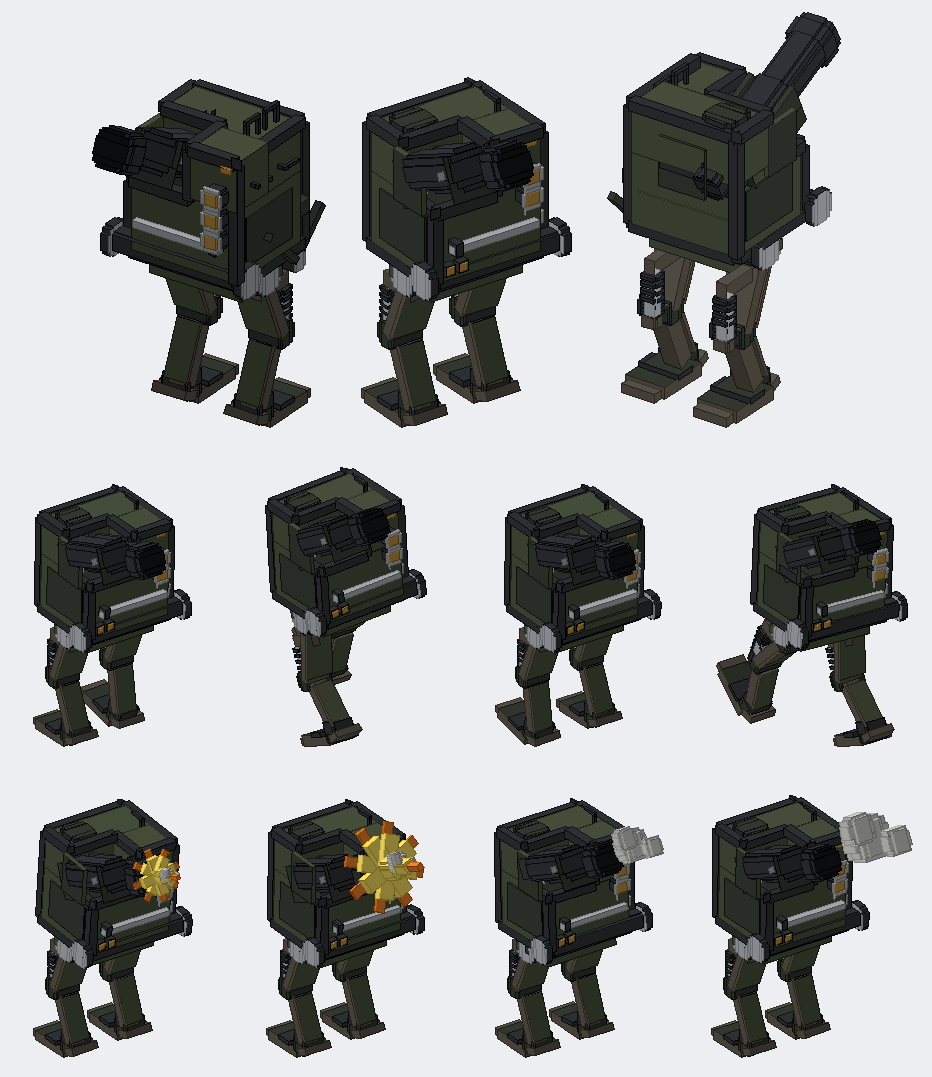
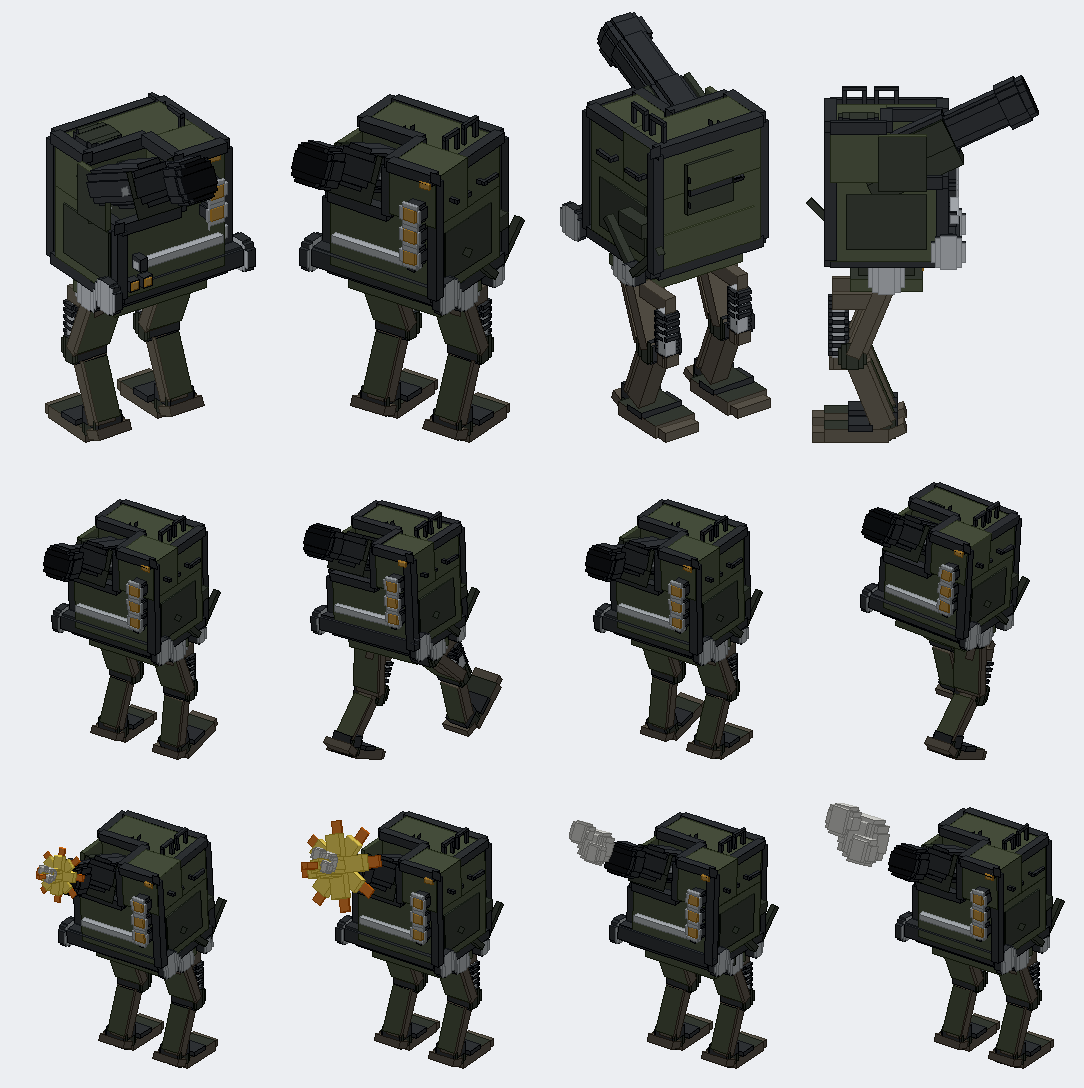
Howitzer Walker: true (unmirrored) previews
box_preview turned the world one way and projected it the other, so every preview was a mirror image; the sheet now shows the walker as it is, with a side view.

diff --git a/tools/box_preview.py b/tools/box_preview.py
@@ -73,8 +73,9 @@ def view(p, yaw=35.0, pitch=28.0):
     """Orthographic three-quarter view: returns (sx, sy, depth)."""
     ya, pa = math.radians(yaw), math.radians(pitch)
     x, y, z = p
-    xr = x * math.cos(ya) - z * math.sin(ya)
-    zr = x * math.sin(ya) + z * math.cos(ya)
+    # The world turned by yaw about y, the camera then looking down -z with x to its right (a true view, not a mirror).
+    xr = x * math.cos(ya) + z * math.sin(ya)
+    zr = -x * math.sin(ya) + z * math.cos(ya)
     yr = y * math.cos(pa) - zr * math.sin(pa)
     depth = y * math.sin(pa) + zr * math.cos(pa)
     return xr, -yr, depth
